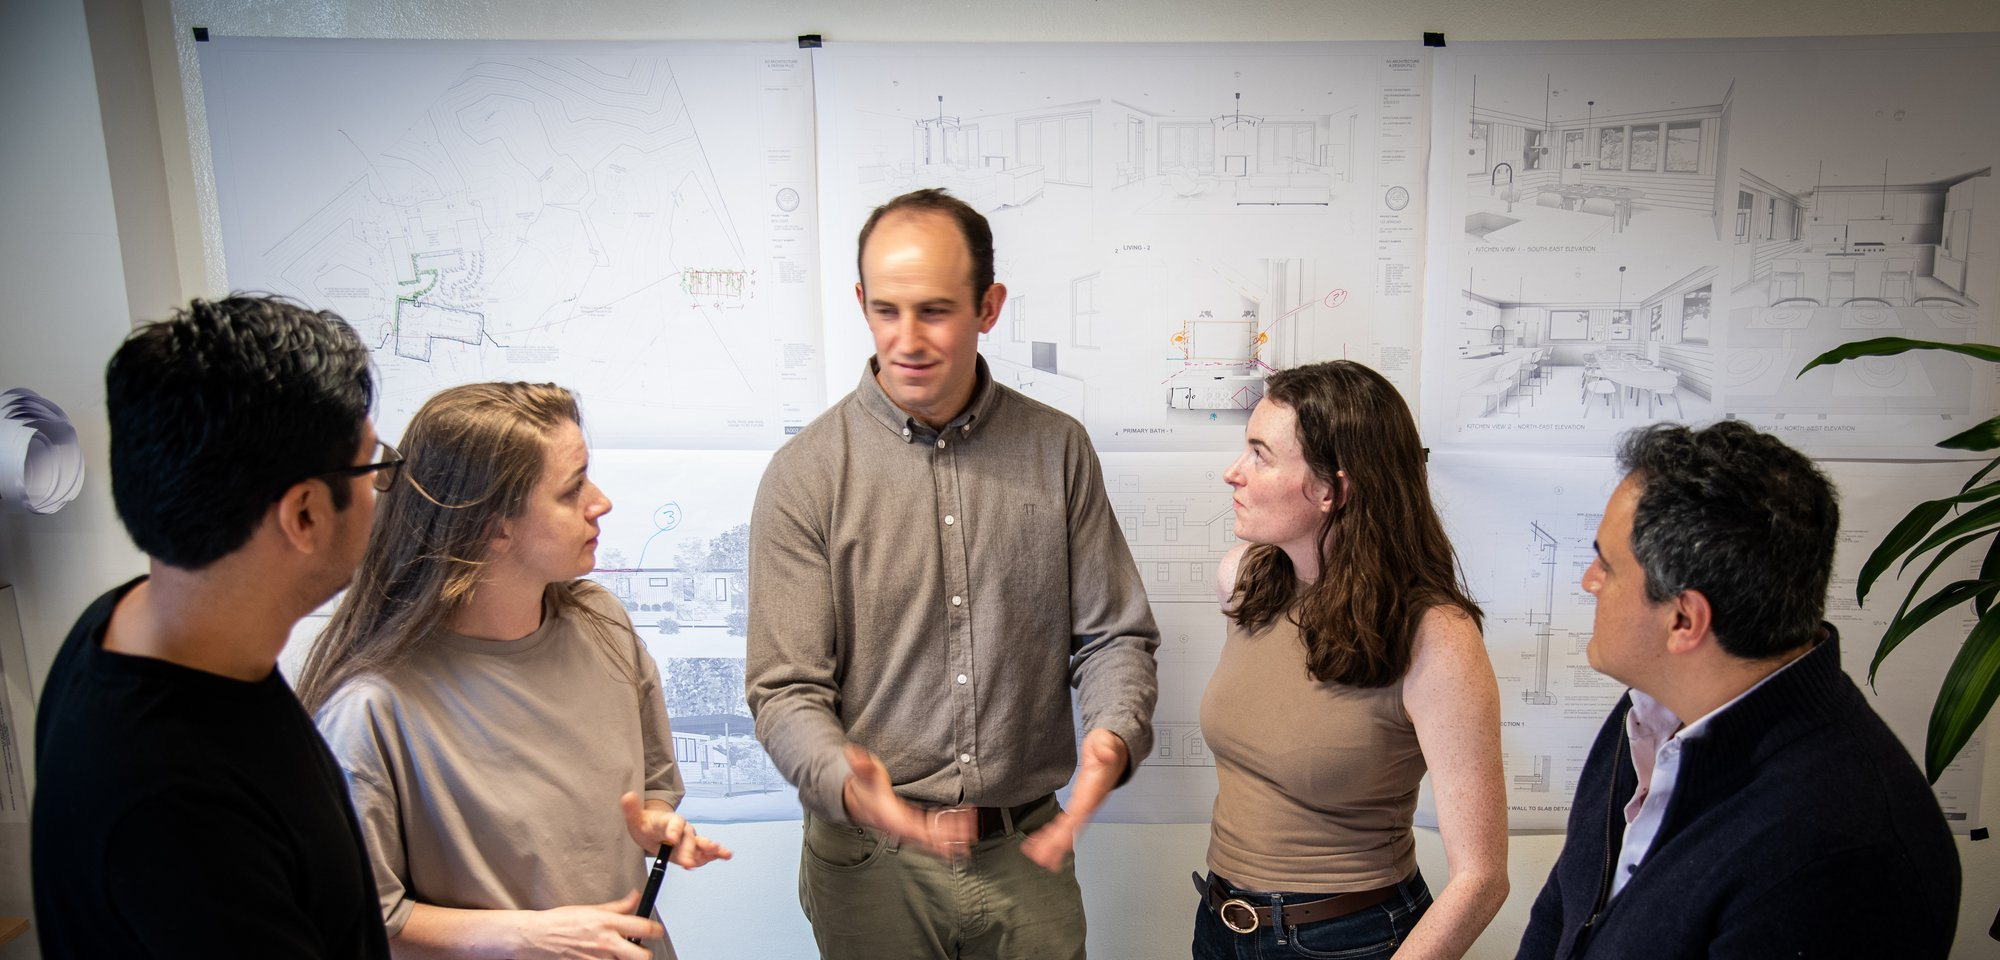
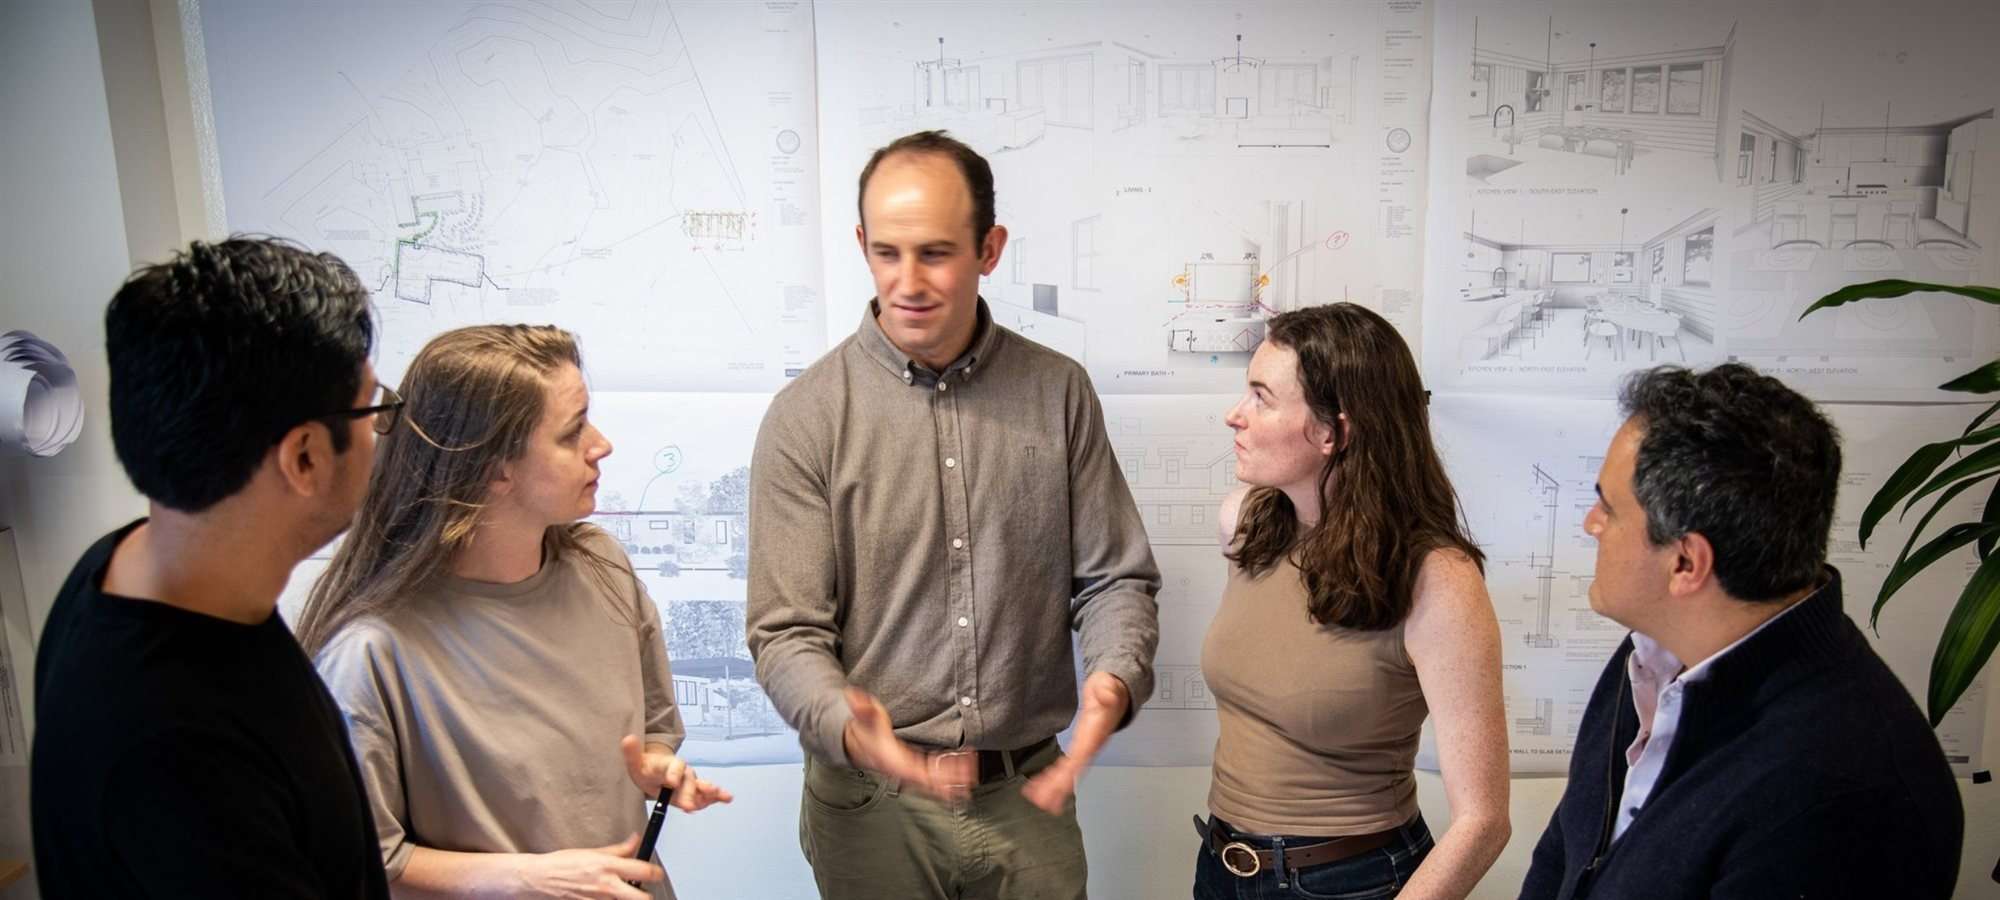
About page: tape-free team photo, updated years of experience, Zander title now Principal
- team.jpg replaced with clean version from Dropbox TEAM folder (no black tape at top)
- Zander 16 years, Emily 18 years, Kate 13 years (text + schema)
- Zander: Partner & Architect -> Principal (bio line + schema)

diff --git a/about.html b/about.html
@@ -16,8 +16,8 @@
       {
         "@type": "Person",
         "name": "Zander Auerbach",
-        "jobTitle": "Partner & Architect",
-        "description": "Zander Auerbach brings 15 years of experience in residential design, construction management, and advanced building systems. Prior to founding the firm, he worked at Maryann Thompson Architects and the MIT Media Lab.",
+        "jobTitle": "Principal",
+        "description": "Zander Auerbach brings 16 years of experience in residential design, construction management, and advanced building systems. Prior to founding the firm, he worked at Maryann Thompson Architects and the MIT Media Lab.",
         "alumniOf": [
           {"@type": "CollegeOrUniversity", "name": "Harvard University"},
           {"@type": "CollegeOrUniversity", "name": "University of Massachusetts Amherst"}
@@ -29,7 +29,7 @@
         "@type": "Person",
         "name": "Emily Ottinger",
         "jobTitle": "Architect",
-        "description": "Emily Ottinger is a registered architect licensed in Maine, Massachusetts, and New York with 17 years of professional experience. Her practice spans academic, commercial, residential, museum, and life sciences buildings. She has worked at Peter Eisenman Architects, Nasrine Seraji in Paris, and Ann Beha Architects in Boston.",
+        "description": "Emily Ottinger is a registered architect licensed in Maine, Massachusetts, and New York with 18 years of professional experience. Her practice spans academic, commercial, residential, museum, and life sciences buildings. She has worked at Peter Eisenman Architects, Nasrine Seraji in Paris, and Ann Beha Architects in Boston.",
         "alumniOf": [
           {"@type": "CollegeOrUniversity", "name": "Yale University"},
           {"@type": "CollegeOrUniversity", "name": "Wellesley College"}
@@ -51,7 +51,7 @@
         "@type": "Person",
         "name": "Kate Vitvitskaia",
         "jobTitle": "Designer",
-        "description": "Kate brings over 12 years of experience in residential design and project development, with clients across the United States, Canada, Europe, and Australia.",
+        "description": "Kate brings over 13 years of experience in residential design and project development, with clients across the United States, Canada, Europe, and Australia.",
         "alumniOf": [
           {"@type": "CollegeOrUniversity", "name": "Saint Petersburg State University of Architecture and Civil Engineering"}
         ],
@@ -122,8 +122,8 @@
             <img src="images/team/zander.jpg" alt="Zander Auerbach">
           </div>
           <h3>Zander Auerbach</h3>
-          <span class="role">AIA, RA &mdash; Partner &amp; Architect</span>
-          <p>Zander brings 15 years of experience in residential design, construction management, and advanced building systems. His work is guided by a commitment to nature-integrated modern architecture and a deep respect for the landscape.</p>
+          <span class="role">AIA, RA &mdash; Principal</span>
+          <p>Zander brings 16 years of experience in residential design, construction management, and advanced building systems. His work is guided by a commitment to nature-integrated modern architecture and a deep respect for the landscape.</p>
           <p>Prior to founding the firm, Zander worked at Maryann Thompson Architects and the MIT Media Lab, where he managed large-scale R&D and construction projects with budgets ranging from $2M to $115M.</p>
           <ul class="credentials">
             <li>Harvard University</li>
@@ -155,7 +155,7 @@
           </div>
           <h3>Kate Vitvitskaia</h3>
           <span class="role">Designer</span>
-          <p>Kate brings over 12 years of experience in residential design and project development, with clients across the United States, Canada, Europe, and Australia. Her work balances architectural precision with buildability, and a strength in Revit-based design development and documentation.</p>
+          <p>Kate brings over 13 years of experience in residential design and project development, with clients across the United States, Canada, Europe, and Australia. Her work balances architectural precision with buildability, and a strength in Revit-based design development and documentation.</p>
           <ul class="credentials">
             <li>Saint Petersburg State University of Architecture and Civil Engineering — BArch</li>
             <li>Previously: Markexpo AB; YossiG Studio</li>
@@ -169,7 +169,7 @@
           </div>
           <h3>Emily Ottinger</h3>
           <span class="role">Architect</span>
-          <p>Emily is a registered architect licensed in Maine, Massachusetts, and New York with 17 years of professional experience. Her practice spans academic, commercial, residential, museum, and life sciences buildings.</p>
+          <p>Emily is a registered architect licensed in Maine, Massachusetts, and New York with 18 years of professional experience. Her practice spans academic, commercial, residential, museum, and life sciences buildings.</p>
           <p>An accomplished painter, Emily brings a fine arts sensibility to every project. She has worked at Peter Eisenman Architects in New York, Nasrine Seraji in Paris, and Ann Beha Architects in Boston.</p>
           <ul class="credentials">
             <li>Yale University — Master of Architecture</li>
